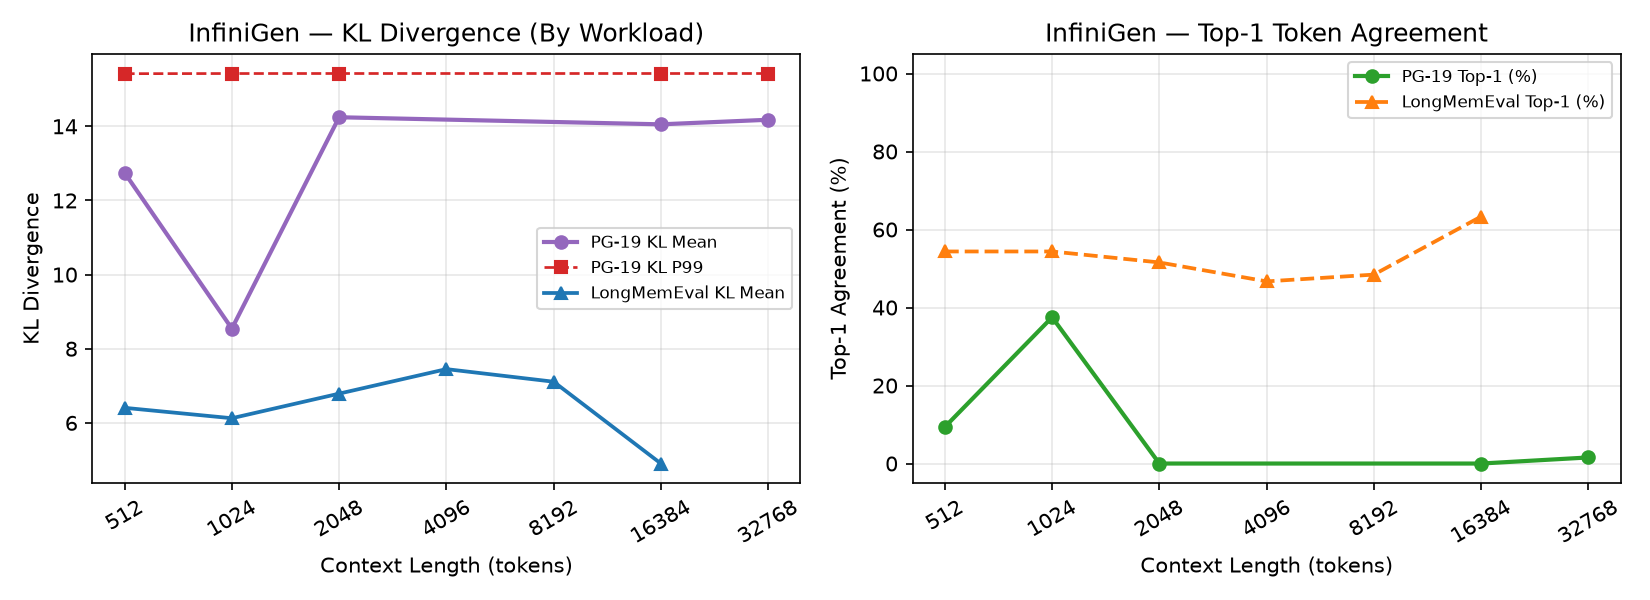
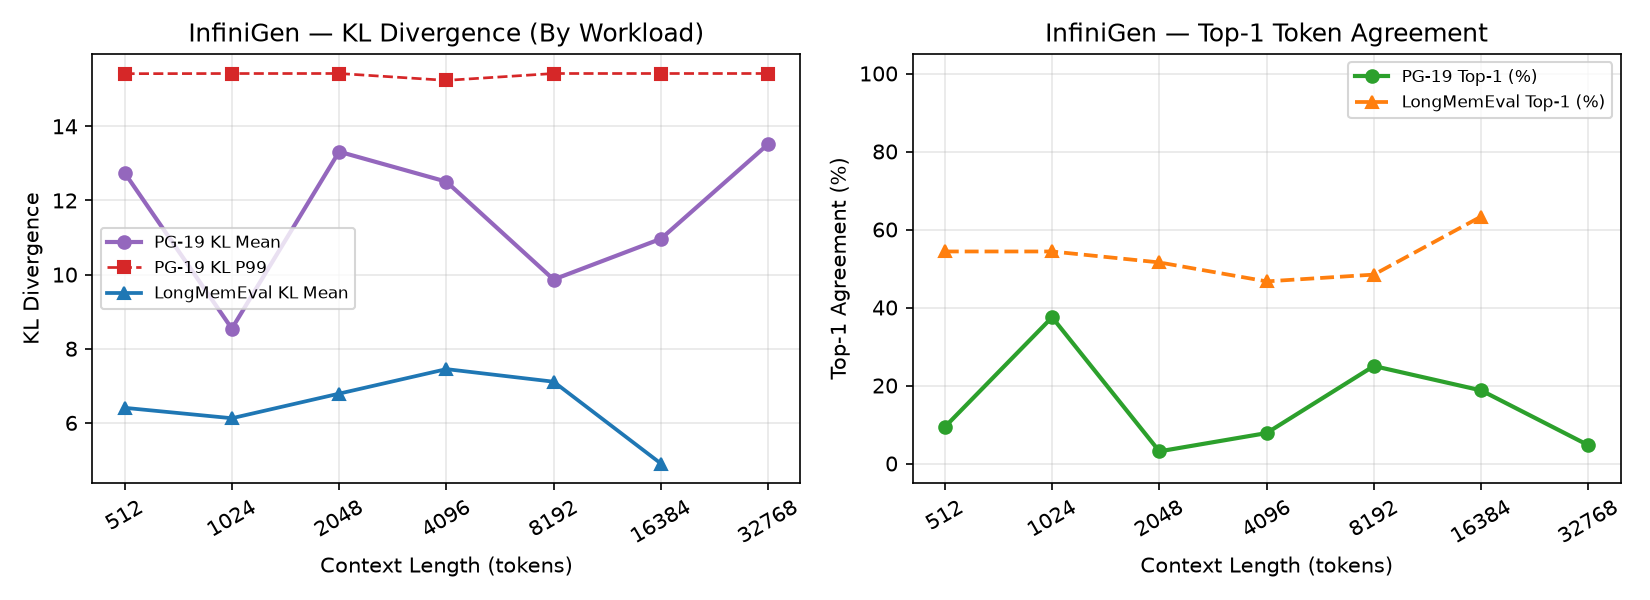
docs(wp3): regenerate reports with complete ShadowKV, StreamingLLM, and InfiniGen sweeps [WP3-12]

diff --git a/docs/WP3_CANDIDATE_EXPLORATION_REPORT.md b/docs/WP3_CANDIDATE_EXPLORATION_REPORT.md
@@ -11,15 +11,15 @@ This executive report synthesizes empirical results across all 11 reproduced KV-
 | WP | Technique | Primary Axis | 32K VRAM (MB) | 32K TPOT (ms) | 32K Host RSS Δ (MB) | 32K Memcpy (B/tok) | PG-19 KL | LongMem KL | NIAH (2K / 4K) | LongMem Pass | Regressions | Profile |
 |:---:|---|:---:|---:|---:|---:|---:|---:|---:|:---:|:---:|---:|---|
 | WP2 | **PyTorch SDPA Baseline** | — | **13225** | **29.2** | **1082** | **0** | — | — | — | **25/99** | **0** | [`baseline_pytorch_16gb.json`](../results/baseline_pytorch_16gb.json) |
-| WP3-1 | **StreamingLLM** | `STRUCTURAL` | 9000 | 15.8 | 5268 | 8266 | — | 5.62 | 100% / 40% | 26/99 | 3 | [Profile](wp3_profiles/streamingllm.md) |
+| WP3-1 | **StreamingLLM** | `STRUCTURAL` | 8712 | 20.9 | 1326 | 8266 | 6.88 | 5.62 | 100% / 40% | 26/99 | 3 | [Profile](wp3_profiles/streamingllm.md) |
 | WP3-2 | **H2O (Heavy-Hitter Oracle)** | `STRUCTURAL` | 9725 | 45.9 | 6874 | 2005976 | 6.55 | 4.01 | 100% / 20% | 22/99 | 4 | [Profile](wp3_profiles/h2o.md) |
 | WP3-3 | **TurboQuant** | `STRUCTURAL` | 10294 | 864.1 | 7529 | 13265 | 11.89 | 9.47 | 100% / 100% | 27/99 | 5 | [Profile](wp3_profiles/turboquant.md) |
 | WP3-4 | **HeadQ** | `STRUCTURAL` | 10109 | 80.9 | 4656 | 8289 | 13.52 | 14.84 | 0% / 0% | 0/99 | 25 | [Profile](wp3_profiles/headq.md) |
 | WP3-5 | **QServe KV4** | `STRUCTURAL` | 10763 | 59.9 | 3629 | 8266 | 10.25 | 7.40 | 100% / 100% | 28/99 | 2 | [Profile](wp3_profiles/qserve_kv4.md) |
 | WP3-6 | **FlexGen-KV** | `SPATIAL` | 8889 | 229.6 | 6565 | 1646964418 | 10.80 | 7.34 | 100% / 100% | 24/99 | 6 | [Profile](wp3_profiles/flexgen_kv.md) |
-| WP3-7 | **ShadowKV** | `SPATIAL` | Pending | Pending | Pending | Pending | — | 3.85 | 100% / 100% | 22/99 | 3 | [Profile](wp3_profiles/shadowkv.md) |
+| WP3-7 | **ShadowKV** | `SPATIAL` | 14233 | 85.3 | 5325 | 67241955 | 5.32 | 3.85 | 100% / 100% | 22/99 | 3 | [Profile](wp3_profiles/shadowkv.md) |
 | WP3-8 | **CacheGen** | `STRUCTURAL` | 10600 | 82.9 | 4536 | 935016151 | 12.87 | 12.58 | 40% / 80% | 16/99 | 11 | [Profile](wp3_profiles/cachegen.md) |
-| WP3-9 | **InfiniGen** | `TEMPORAL` | 15158 | 657.3 | 18552 | 2085318671 | 12.75 | 6.46 | 100% / 100% | 24/99 | 4 | [Profile](wp3_profiles/infinigen.md) |
+| WP3-9 | **InfiniGen** | `TEMPORAL` | 13910 | 219.7 | 20491 | 1829885205 | 11.64 | 6.46 | 100% / 100% | 24/99 | 4 | [Profile](wp3_profiles/infinigen.md) |
 | WP3-10 | **ArkVale** | `SPATIAL` | 9033 | 102.9 | 16614 | 1618383854 | 11.42 | 6.63 | 100% / 100% | 23/99 | 4 | [Profile](wp3_profiles/arkvale.md) |
 | WP3-11 | **EpiCache** | `STRUCTURAL` | 8567 | 30.6 | 2846 | 442264 | 9.86 | 9.00 | 0% / 0% | 10/99 | 17 | [Profile](wp3_profiles/epicache.md) |
 
@@ -29,7 +29,7 @@ This executive report synthesizes empirical results across all 11 reproduced KV-
 
 ### WP3-1: StreamingLLM (`STRUCTURAL`) — [Full Profile](wp3_profiles/streamingllm.md)
 - **Mechanism:** StreamingLLM retains a small set of initial 'attention sink' tokens alongside a fixed-size rolling sliding window of the most recent tokens. When the sequence exceeds the combined budget, intermediate tokens between the sinks and the local window are evicted in FIFO order, bounding KV-cache memory to O(1) regardless of prompt length.
-- **Prominent Upside:** **31.9% lower 32K VRAM** (9000 MB); **15.8 ms/tok** decode TPOT (1.84× baseline speed); **26/99 LongMemEval passes** (3 regressions); low LongMemEval KL (**5.62**)
+- **Prominent Upside:** **34.1% lower 32K VRAM** (8712 MB); **20.9 ms/tok** decode TPOT (1.39× baseline speed); **26/99 LongMemEval passes** (3 regressions); low LongMemEval KL (**5.62**)
 - **Primary Trade-Off:** NIAH drops to **100% @2K / 40% @4K**
 
 ### WP3-2: H2O (Heavy-Hitter Oracle) (`STRUCTURAL`) — [Full Profile](wp3_profiles/h2o.md)
@@ -60,7 +60,7 @@ This executive report synthesizes empirical results across all 11 reproduced KV-
 ### WP3-7: ShadowKV (`SPATIAL`) — [Full Profile](wp3_profiles/shadowkv.md)
 - **Mechanism:** ShadowKV keeps low-rank SVD-compressed Key representations and sparse outlier channels on the GPU for fast chunk-level relevance scoring, while offloading full-precision Values to CPU RAM and fetching only the top-k relevant chunks on demand during decode.
 - **Prominent Upside:** **100% NIAH** exact-match retrieval (2K & 4K); low LongMemEval KL (**3.85**)
-- **Primary Trade-Off:** 32K hardware sweep is pending; LongMemEval **22/99** (3 regressions vs. 25 baseline)
+- **Primary Trade-Off:** **+7.6% higher 32K VRAM** (14233 MB vs. 13225 MB baseline); 32K decode TPOT is **2.92× slower** (85.3 ms/tok); LongMemEval **22/99** (3 regressions vs. 25 baseline)
 
 ### WP3-8: CacheGen (`STRUCTURAL`) — [Full Profile](wp3_profiles/cachegen.md)
 - **Mechanism:** CacheGen encodes KV tensors using anchor-delta compression (storing periodic anchor tokens at higher precision and encoding intermediate tokens as deltas) combined with layer-tiered bit allocation across shallow, middle, and deep transformer layers.
@@ -70,7 +70,7 @@ This executive report synthesizes empirical results across all 11 reproduced KV-
 ### WP3-9: InfiniGen (`TEMPORAL`) — [Full Profile](wp3_profiles/infinigen.md)
 - **Mechanism:** InfiniGen speculatively prefetches important KV blocks from CPU memory one layer ahead by using low-rank key proxies and threshold-based importance prediction to overlap host-to-device transfers with layer computation.
 - **Prominent Upside:** **100% NIAH** exact-match retrieval (2K & 4K)
-- **Primary Trade-Off:** **+14.6% higher 32K VRAM** (15158 MB vs. 13225 MB baseline); 32K decode TPOT is **22.53× slower** (657.3 ms/tok); LongMemEval **24/99** (4 regressions vs. 25 baseline); high PG-19 KL (**12.75**)
+- **Primary Trade-Off:** **+5.2% higher 32K VRAM** (13910 MB vs. 13225 MB baseline); 32K decode TPOT is **7.53× slower** (219.7 ms/tok); LongMemEval **24/99** (4 regressions vs. 25 baseline)
 
 ### WP3-10: ArkVale (`SPATIAL`) — [Full Profile](wp3_profiles/arkvale.md)
 - **Mechanism:** ArkVale organizes the KV cache into fixed-size pages offloaded to CPU RAM and maintains Axis-Aligned Bounding Box (AABB) geometric digests on the GPU to recall and page-in only the relevant KV pages per query.
@@ -94,6 +94,6 @@ This executive report synthesizes empirical results across all 11 reproduced KV-
 
 ## 4. Key Takeaways for WP-4 (3-Axis Co-Optimization)
 
-1. **Lowest Memory & Fastest Decode Come from Structural Eviction, at the Cost of NIAH Recall:** `EpiCache` achieves the lowest 32K VRAM (**8567 MB**) and `StreamingLLM` achieves the fastest 32K decode (**15.8 ms/tok**), but both lose non-local needles at 4K.
+1. **Lowest Memory & Fastest Decode Come from Structural Eviction, at the Cost of NIAH Recall:** `EpiCache` achieves the lowest 32K VRAM (**8567 MB**) and `StreamingLLM` achieves the fastest 32K decode (**20.9 ms/tok**), but both lose non-local needles at 4K.
 2. **4-Bit KV Quantization Preserves Full-Context Accuracy:** `QServe KV4` leads LongMemEval (**28/99**, 2 regressions) with **100% NIAH**, establishing 4-bit group quantization as the safest *Structural* baseline for WP-4.
 3. **Spatial Offloading Must Control PCIe & Auxiliary Buffer Overhead:** Offloading techniques (`FlexGen-KV`, `ArkVale`, `ShadowKV`, `InfiniGen`) preserve 100% NIAH at 2K/4K, but high PCIe transfer volume or auxiliary prefetch buffers can erode VRAM or TPOT gains if left uncoordinated.

diff --git a/docs/wp3_profiles/infinigen.md b/docs/wp3_profiles/infinigen.md
@@ -2,7 +2,7 @@
 
 **Primary Axis:** `TEMPORAL` | **All Axes:** `SPATIAL, TEMPORAL, STRUCTURAL` | **Model:** `Qwen3-4B-Instruct-2507` (16.0 GiB Cap, PyTorch Native SDPA)
 
-**Artifact Provenance (SHA-256):** `infinigen_hardware_pytorch_16gb.json`: `VERIFIED` (`51ce698454d1…`) | `infinigen_longmem_pytorch_16gb.json`: `UPDATED (post-manifest re-run)` (`c3d9ece137f4…`) | `infinigen_niah_pytorch_16gb.json`: `UPDATED (post-manifest re-run)` (`3edd0b98a4cc…`)
+**Artifact Provenance (SHA-256):** `infinigen_hardware_pytorch_16gb.json`: `UPDATED (post-manifest re-run)` (`85ad425a18e7…`) | `infinigen_longmem_pytorch_16gb.json`: `UPDATED (post-manifest re-run)` (`c3d9ece137f4…`) | `infinigen_niah_pytorch_16gb.json`: `UPDATED (post-manifest re-run)` (`3edd0b98a4cc…`)
 
 ---
 
@@ -20,13 +20,13 @@ InfiniGen speculatively prefetches important KV blocks from CPU memory one layer
 
 | Context | Status | Peak Alloc (MB) | Peak Reserved (MB) | Warm TTFT (s) | Cold TTFT (s) | TPOT Mean (ms) | TPOT P95 (ms) | Throughput (tok/s) | Host RSS Δ (MB) | Memcpy (B/tok) |
 |---:|:---:|---:|---:|---:|---:|---:|---:|---:|---:|---:|
-| 512 | SUCCESS | 7982.1 | 7998.0 | 0.049 | 0.000 | 46.16 | 46.16 | 21.66 | 5816.9 | 29696601.2 |
-| 1024 | SUCCESS | 8273.5 | 8400.0 | 0.086 | 0.000 | 55.62 | 55.62 | 17.98 | 10586.8 | 55804006.9 |
-| 2048 | SUCCESS | 8720.7 | 8822.0 | 0.193 | 0.000 | 71.88 | 71.88 | 13.91 | 19738.4 | 86615915.8 |
-| 4096 | FAILED | 0.0 | 0.0 | 0.000 | 0.000 | 0.00 | 0.00 | 0.00 | 0.0 | 0.0 |
-| 8192 | FAILED | 0.0 | 0.0 | 0.000 | 0.000 | 0.00 | 0.00 | 0.00 | 0.0 | 0.0 |
-| 16384 | SUCCESS | 11871.8 | 12444.0 | 3.606 | 0.000 | 352.46 | 352.46 | 2.84 | 13334.8 | 888775168.8 |
-| 32768 | SUCCESS | 15158.1 | 15774.0 | 14.158 | 0.000 | 657.32 | 657.32 | 1.52 | 18551.8 | 2085318671.2 |
+| 512 | SUCCESS | 7947.1 | 7958.0 | 0.071 | 0.000 | 45.05 | 45.05 | 22.20 | 2122.6 | 29696601.2 |
+| 1024 | SUCCESS | 8170.0 | 8302.0 | 0.109 | 0.000 | 61.64 | 61.64 | 16.22 | 2202.1 | 55804006.9 |
+| 2048 | SUCCESS | 8610.8 | 8740.0 | 0.228 | 0.000 | 64.66 | 64.66 | 15.47 | 2786.2 | 107520416.0 |
+| 4096 | SUCCESS | 8941.6 | 9320.0 | 0.516 | 0.000 | 86.60 | 86.60 | 11.55 | 3953.7 | 187541319.2 |
+| 8192 | SUCCESS | 9603.1 | 10200.0 | 1.344 | 0.000 | 111.55 | 111.55 | 8.96 | 6309.9 | 324091471.4 |
+| 16384 | SUCCESS | 10959.9 | 11774.0 | 4.070 | 0.000 | 161.79 | 161.79 | 6.18 | 11049.3 | 710706859.1 |
+| 32768 | SUCCESS | 13910.0 | 15474.0 | 15.372 | 0.000 | 219.68 | 219.68 | 4.55 | 20490.6 | 1829885205.2 |
 
 ![InfiniGen Hardware Sweep](../figures/wp3/infinigen/hardware_sweep.png)
 
@@ -38,9 +38,11 @@ InfiniGen speculatively prefetches important KV blocks from CPU memory one layer
 |---:|---:|---:|---:|
 | 512 | 12.7462 | 15.4200 | 9.38 |
 | 1024 | 8.5429 | 15.4243 | 37.50 |
-| 2048 | 14.2447 | 15.4249 | 0.00 |
-| 16384 | 14.0537 | 15.4249 | 0.00 |
-| 32768 | 14.1768 | 15.4249 | 1.56 |
+| 2048 | 13.3156 | 15.4249 | 3.12 |
+| 4096 | 12.5069 | 15.2393 | 7.81 |
+| 8192 | 9.8666 | 15.4249 | 25.00 |
+| 16384 | 10.9649 | 15.4249 | 18.75 |
+| 32768 | 13.5198 | 15.4249 | 4.69 |
 
 #### LongMemEval Conversational Sweep
 
@@ -114,8 +116,8 @@ On LongMemEval (99 inspected samples across 512–16,384 tokens), InfiniGen scor
 
 ### Cons
 
-- Increases peak allocated VRAM at 32K by **+14.6%** (15158 MB vs. 13225 MB baseline) due to auxiliary metadata/prefetch buffers.
-- Decode latency at 32K is **22.53x slower** than baseline (**657.3 ms/tok** vs. 29.2 ms/tok).
-- High host-device transfer volume at 32K (**2085318671 B/tok**, Host RSS Δ = **18552 MB**).
-- Elevated PG-19 logit divergence (mean KL = **12.75**, Top-1 = **9.7%**).
+- Increases peak allocated VRAM at 32K by **+5.2%** (13910 MB vs. 13225 MB baseline) due to auxiliary metadata/prefetch buffers.
+- Decode latency at 32K is **7.53x slower** than baseline (**219.7 ms/tok** vs. 29.2 ms/tok).
+- High host-device transfer volume at 32K (**1829885205 B/tok**, Host RSS Δ = **20491 MB**).
+- Elevated PG-19 logit divergence (mean KL = **11.64**, Top-1 = **15.2%**).
 - Trails baseline LongMemEval pass count (**24/99** vs. 25/99 baseline) with **4** quality regressions (mean KV retention ratio = **1.00**).

diff --git a/docs/wp3_profiles/shadowkv.md b/docs/wp3_profiles/shadowkv.md
@@ -2,7 +2,7 @@
 
 **Primary Axis:** `SPATIAL` | **All Axes:** `SPATIAL, STRUCTURAL, TEMPORAL` | **Model:** `Qwen3-4B-Instruct-2507` (16.0 GiB Cap, PyTorch Native SDPA)
 
-**Artifact Provenance (SHA-256):** `shadowkv_hardware_pytorch_16gb.json`: `MISSING` | `shadowkv_longmem_pytorch_16gb.json`: `UPDATED (post-manifest re-run)` (`807264f99220…`) | `shadowkv_niah_pytorch_16gb.json`: `UPDATED (post-manifest re-run)` (`ea728df232b9…`)
+**Artifact Provenance (SHA-256):** `shadowkv_hardware_pytorch_16gb.json`: `UPDATED (post-manifest re-run)` (`6a7bbf2b1eae…`) | `shadowkv_longmem_pytorch_16gb.json`: `UPDATED (post-manifest re-run)` (`a9d68344f853…`) | `shadowkv_niah_pytorch_16gb.json`: `UPDATED (post-manifest re-run)` (`fa78e110f6c6…`)
 
 ---
 
@@ -18,9 +18,31 @@ ShadowKV keeps low-rank SVD-compressed Key representations and sparse outlier ch
 
 ### 2.1 Hardware Metric Sweep (512 → 32,768)
 
-*Pending: `results/shadowkv_hardware_pytorch_16gb.json` has not been generated/fetched yet.*
+| Context | Status | Peak Alloc (MB) | Peak Reserved (MB) | Warm TTFT (s) | Cold TTFT (s) | TPOT Mean (ms) | TPOT P95 (ms) | Throughput (tok/s) | Host RSS Δ (MB) | Memcpy (B/tok) |
+|---:|:---:|---:|---:|---:|---:|---:|---:|---:|---:|---:|
+| 512 | SUCCESS | 7911.7 | 7998.0 | 0.038 | 0.000 | 20.90 | 20.90 | 47.84 | 1682.5 | 201.8 |
+| 1024 | SUCCESS | 8232.5 | 8866.0 | 0.070 | 0.000 | 39.85 | 39.85 | 25.10 | 2450.7 | 2593806.4 |
+| 2048 | SUCCESS | 8566.9 | 9318.0 | 0.152 | 0.000 | 39.50 | 39.50 | 25.31 | 2457.0 | 5244844.6 |
+| 4096 | SUCCESS | 8918.2 | 10006.0 | 0.344 | 0.000 | 43.74 | 43.74 | 22.86 | 2674.4 | 9982381.6 |
+| 8192 | SUCCESS | 9821.0 | 10990.0 | 0.829 | 0.000 | 54.13 | 54.13 | 18.47 | 3238.3 | 19339027.3 |
+| 16384 | SUCCESS | 11468.3 | 12932.0 | 2.237 | 0.000 | 66.32 | 66.32 | 15.08 | 3942.8 | 36767998.9 |
+| 32768 | SUCCESS | 14233.0 | 16124.0 | 6.802 | 0.000 | 85.29 | 85.29 | 11.73 | 5325.1 | 67241955.2 |
+
+![ShadowKV Hardware Sweep](../figures/wp3/shadowkv/hardware_sweep.png)
 
 ### 2.2 KL Divergence & Logit Fidelity
+
+#### PG-19 Hardware Sweep
+
+| Context | KL Div Mean | KL Div P99 | Top-1 Agreement (%) |
+|---:|---:|---:|---:|
+| 512 | 0.0000 | 0.0000 | 100.00 |
+| 1024 | 10.6381 | 15.4247 | 25.00 |
+| 2048 | 7.9431 | 15.4249 | 40.62 |
+| 4096 | 4.1498 | 15.1387 | 68.75 |
+| 8192 | 0.0513 | 0.8673 | 100.00 |
+| 16384 | 1.5682 | 14.4418 | 87.50 |
+| 32768 | 12.9090 | 15.4249 | 7.81 |
 
 #### LongMemEval Conversational Sweep
 
@@ -84,17 +106,18 @@ ShadowKV keeps low-rank SVD-compressed Key representations and sparse outlier ch
 
 Tested with svd_rank=160, chunk_size=8, topk_chunks=256, and outlier_ratio=0.003. This design aims to combine full-sequence recall (via CPU Value backing) with low GPU VRAM footprint and selective temporal chunk retrieval.
 
-**Hardware Sweep Pending:** `results/shadowkv_hardware_pytorch_16gb.json` has not been generated/fetched yet.
-
 On the 2D NIAH diagnostic sweep, exact-match retrieval across depths 0.0–0.9 is **2048: 100%, 4096: 100%**.
 
 On LongMemEval (99 inspected samples across 512–16,384 tokens), ShadowKV scores **22/99** with **3** quality regressions relative to the uncompressed baseline (25/99) and a mean token retention ratio of **1.00**.
 
 ### Pros
 
-- Low LongMemEval logit drift (mean KL = **3.85**, Top-1 = **71.8%**).
+- Low PG-19 logit drift (mean KL = **5.32**, Top-1 = **61.4%**).
 - Achieves **100% NIAH exact-match retrieval** across all depths (0.0–0.9) at both 2,048 and 4,096 context lengths.
 
 ### Cons
 
+- Increases peak allocated VRAM at 32K by **+7.6%** (14233 MB vs. 13225 MB baseline) due to auxiliary metadata/prefetch buffers.
+- Decode latency at 32K is **2.92x slower** than baseline (**85.3 ms/tok** vs. 29.2 ms/tok).
+- High host-device transfer volume at 32K (**67241955 B/tok**, Host RSS Δ = **5325 MB**).
 - Trails baseline LongMemEval pass count (**22/99** vs. 25/99 baseline) with **3** quality regressions (mean KV retention ratio = **1.00**).

diff --git a/docs/wp3_profiles/streamingllm.md b/docs/wp3_profiles/streamingllm.md
@@ -2,7 +2,7 @@
 
 **Primary Axis:** `STRUCTURAL` | **All Axes:** `STRUCTURAL` | **Model:** `Qwen3-4B-Instruct-2507` (16.0 GiB Cap, PyTorch Native SDPA)
 
-**Artifact Provenance (SHA-256):** `streamingllm_hardware_pytorch_16gb.json`: `UPDATED (post-manifest re-run)` (`c329edff7e83…`) | `streamingllm_longmem_pytorch_16gb.json`: `UPDATED (post-manifest re-run)` (`fd5ddd1381cf…`) | `streamingllm_niah_pytorch_16gb.json`: `UNMANIFESTED` (`5f01cee56d9e…`)
+**Artifact Provenance (SHA-256):** `streamingllm_hardware_pytorch_16gb.json`: `UPDATED (post-manifest re-run)` (`05bd5adb4d50…`) | `streamingllm_longmem_pytorch_16gb.json`: `UPDATED (post-manifest re-run)` (`fd5ddd1381cf…`) | `streamingllm_niah_pytorch_16gb.json`: `UNMANIFESTED` (`5f01cee56d9e…`)
 
 ---
 
@@ -20,17 +20,29 @@ StreamingLLM retains a small set of initial 'attention sink' tokens alongside a 
 
 | Context | Status | Peak Alloc (MB) | Peak Reserved (MB) | Warm TTFT (s) | Cold TTFT (s) | TPOT Mean (ms) | TPOT P95 (ms) | Throughput (tok/s) | Host RSS Δ (MB) | Memcpy (B/tok) |
 |---:|:---:|---:|---:|---:|---:|---:|---:|---:|---:|---:|
-| 512 | SUCCESS | 7992.5 | 8098.0 | 0.038 | 0.000 | 15.49 | 15.49 | 64.56 | 3521.8 | 201.8 |
-| 1024 | SUCCESS | 8285.9 | 8404.0 | 0.070 | 0.000 | 15.25 | 15.25 | 65.56 | 3521.8 | 329.8 |
-| 2048 | SUCCESS | 8855.5 | 8924.0 | 0.154 | 0.000 | 16.03 | 16.03 | 62.38 | 3752.6 | 585.8 |
-| 4096 | SUCCESS | 9000.1 | 9224.0 | 0.337 | 0.000 | 16.03 | 16.03 | 62.38 | 3858.5 | 1097.8 |
-| 8192 | SUCCESS | 9000.1 | 9224.0 | 0.705 | 0.000 | 16.06 | 16.06 | 62.25 | 4057.9 | 2121.8 |
-| 16384 | SUCCESS | 9000.1 | 9404.0 | 1.493 | 0.000 | 16.01 | 16.01 | 62.46 | 4461.9 | 4169.8 |
-| 32768 | SUCCESS | 9000.3 | 9404.0 | 3.010 | 0.000 | 15.82 | 15.82 | 63.21 | 5267.5 | 8265.8 |
+| 512 | SUCCESS | 7911.7 | 7998.0 | 0.039 | 0.000 | 21.11 | 21.11 | 47.37 | 1104.6 | 201.8 |
+| 1024 | SUCCESS | 8133.0 | 8164.0 | 0.070 | 0.000 | 20.74 | 20.74 | 48.22 | 1104.7 | 329.8 |
+| 2048 | SUCCESS | 8566.9 | 8624.0 | 0.154 | 0.000 | 21.46 | 21.46 | 46.61 | 1149.9 | 585.8 |
+| 4096 | SUCCESS | 8711.5 | 8924.0 | 0.339 | 0.000 | 21.20 | 21.20 | 47.18 | 1048.2 | 1097.8 |
+| 8192 | SUCCESS | 8711.5 | 9104.0 | 0.705 | 0.000 | 21.23 | 21.23 | 47.09 | 1186.2 | 2121.8 |
+| 16384 | SUCCESS | 8711.6 | 9104.0 | 1.441 | 0.000 | 20.90 | 20.90 | 47.84 | 1233.8 | 4169.8 |
+| 32768 | SUCCESS | 8711.7 | 9124.0 | 2.905 | 0.000 | 20.95 | 20.95 | 47.73 | 1326.5 | 8265.8 |
 
 ![StreamingLLM Hardware Sweep](../figures/wp3/streamingllm/hardware_sweep.png)
 
 ### 2.2 KL Divergence & Logit Fidelity
+
+#### PG-19 Hardware Sweep
+
+| Context | KL Div Mean | KL Div P99 | Top-1 Agreement (%) |
+|---:|---:|---:|---:|
+| 512 | 0.0000 | 0.0000 | 100.00 |
+| 1024 | 0.0000 | 0.0000 | 100.00 |
+| 2048 | 11.1998 | 15.4249 | 17.19 |
+| 4096 | 3.2542 | 15.1387 | 75.00 |
+| 8192 | 9.8077 | 15.4249 | 29.69 |
+| 16384 | 10.5379 | 15.4249 | 25.00 |
+| 32768 | 13.3844 | 15.4249 | 6.25 |
 
 #### LongMemEval Conversational Sweep
 
@@ -100,11 +112,11 @@ On LongMemEval (99 inspected samples across 512–16,384 tokens), StreamingLLM s
 
 ### Pros
 
-- Reduces peak allocated VRAM at 32K by **31.9%** (9000 MB vs. 13225 MB baseline).
-- Decode latency at 32K is faster or at parity with baseline (**15.8 ms/tok** vs. 29.2 ms/tok, 1.84x speed).
-- Low LongMemEval logit drift (mean KL = **5.62**, Top-1 = **60.8%**).
+- Reduces peak allocated VRAM at 32K by **34.1%** (8712 MB vs. 13225 MB baseline).
+- Decode latency at 32K is faster or at parity with baseline (**20.9 ms/tok** vs. 29.2 ms/tok, 1.39x speed).
 - Matches or exceeds baseline LongMemEval pass count (**26/99** vs. 25/99 baseline) with **3** compression-induced quality regressions.
 
 ### Cons
 
+- Elevated PG-19 logit divergence (mean KL = **6.88**, Top-1 = **50.4%**).
 - NIAH retrieval drops to **40%** at 4,096 tokens (failing at depths `[0.0, 0.1, 0.2, 0.3, 0.4, 0.5]`), confirming loss of early/non-local needle tokens.
